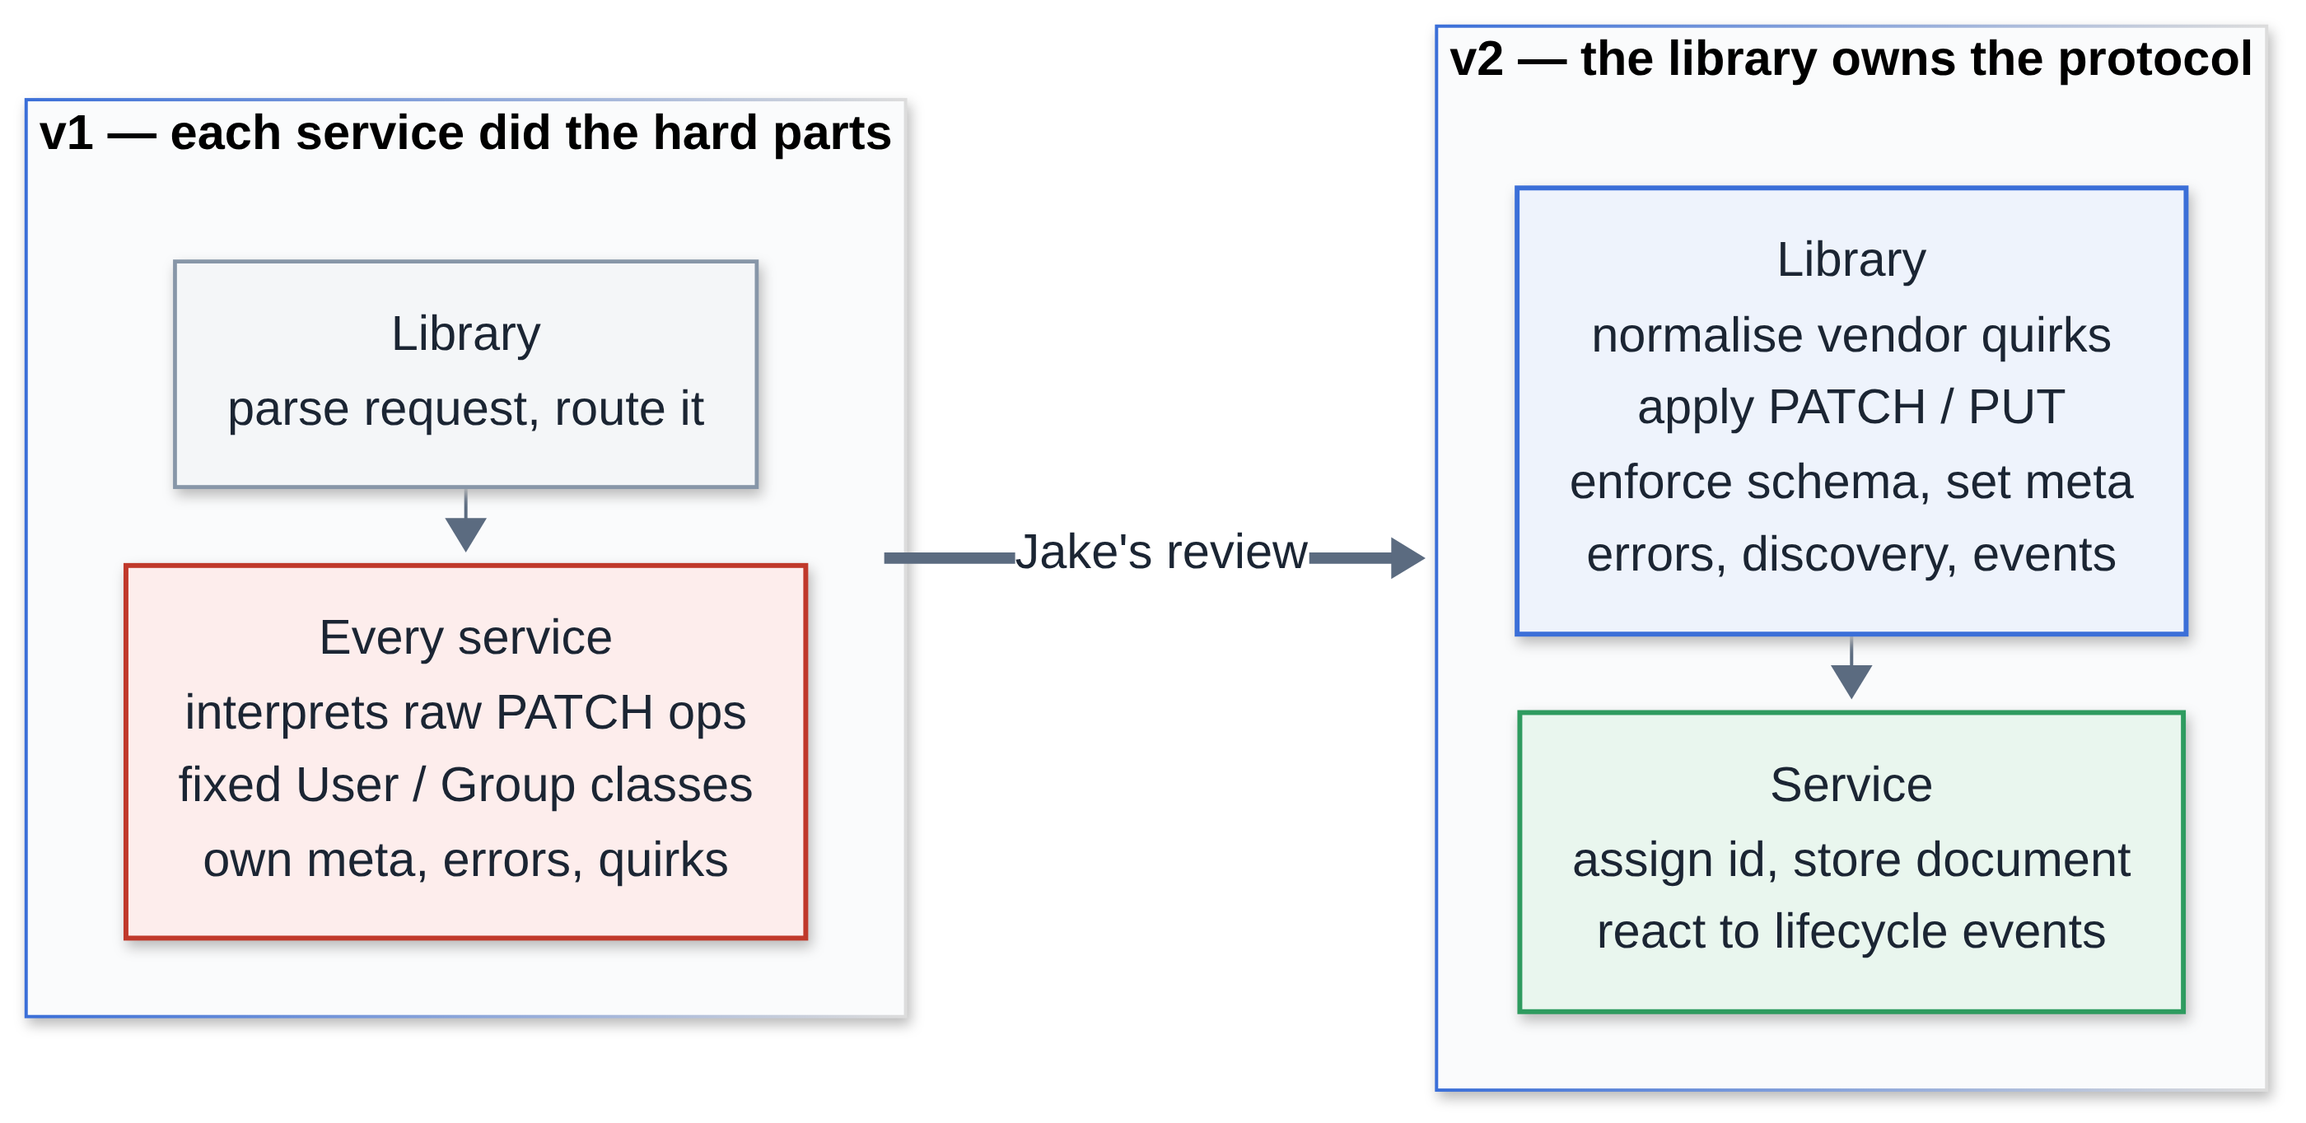
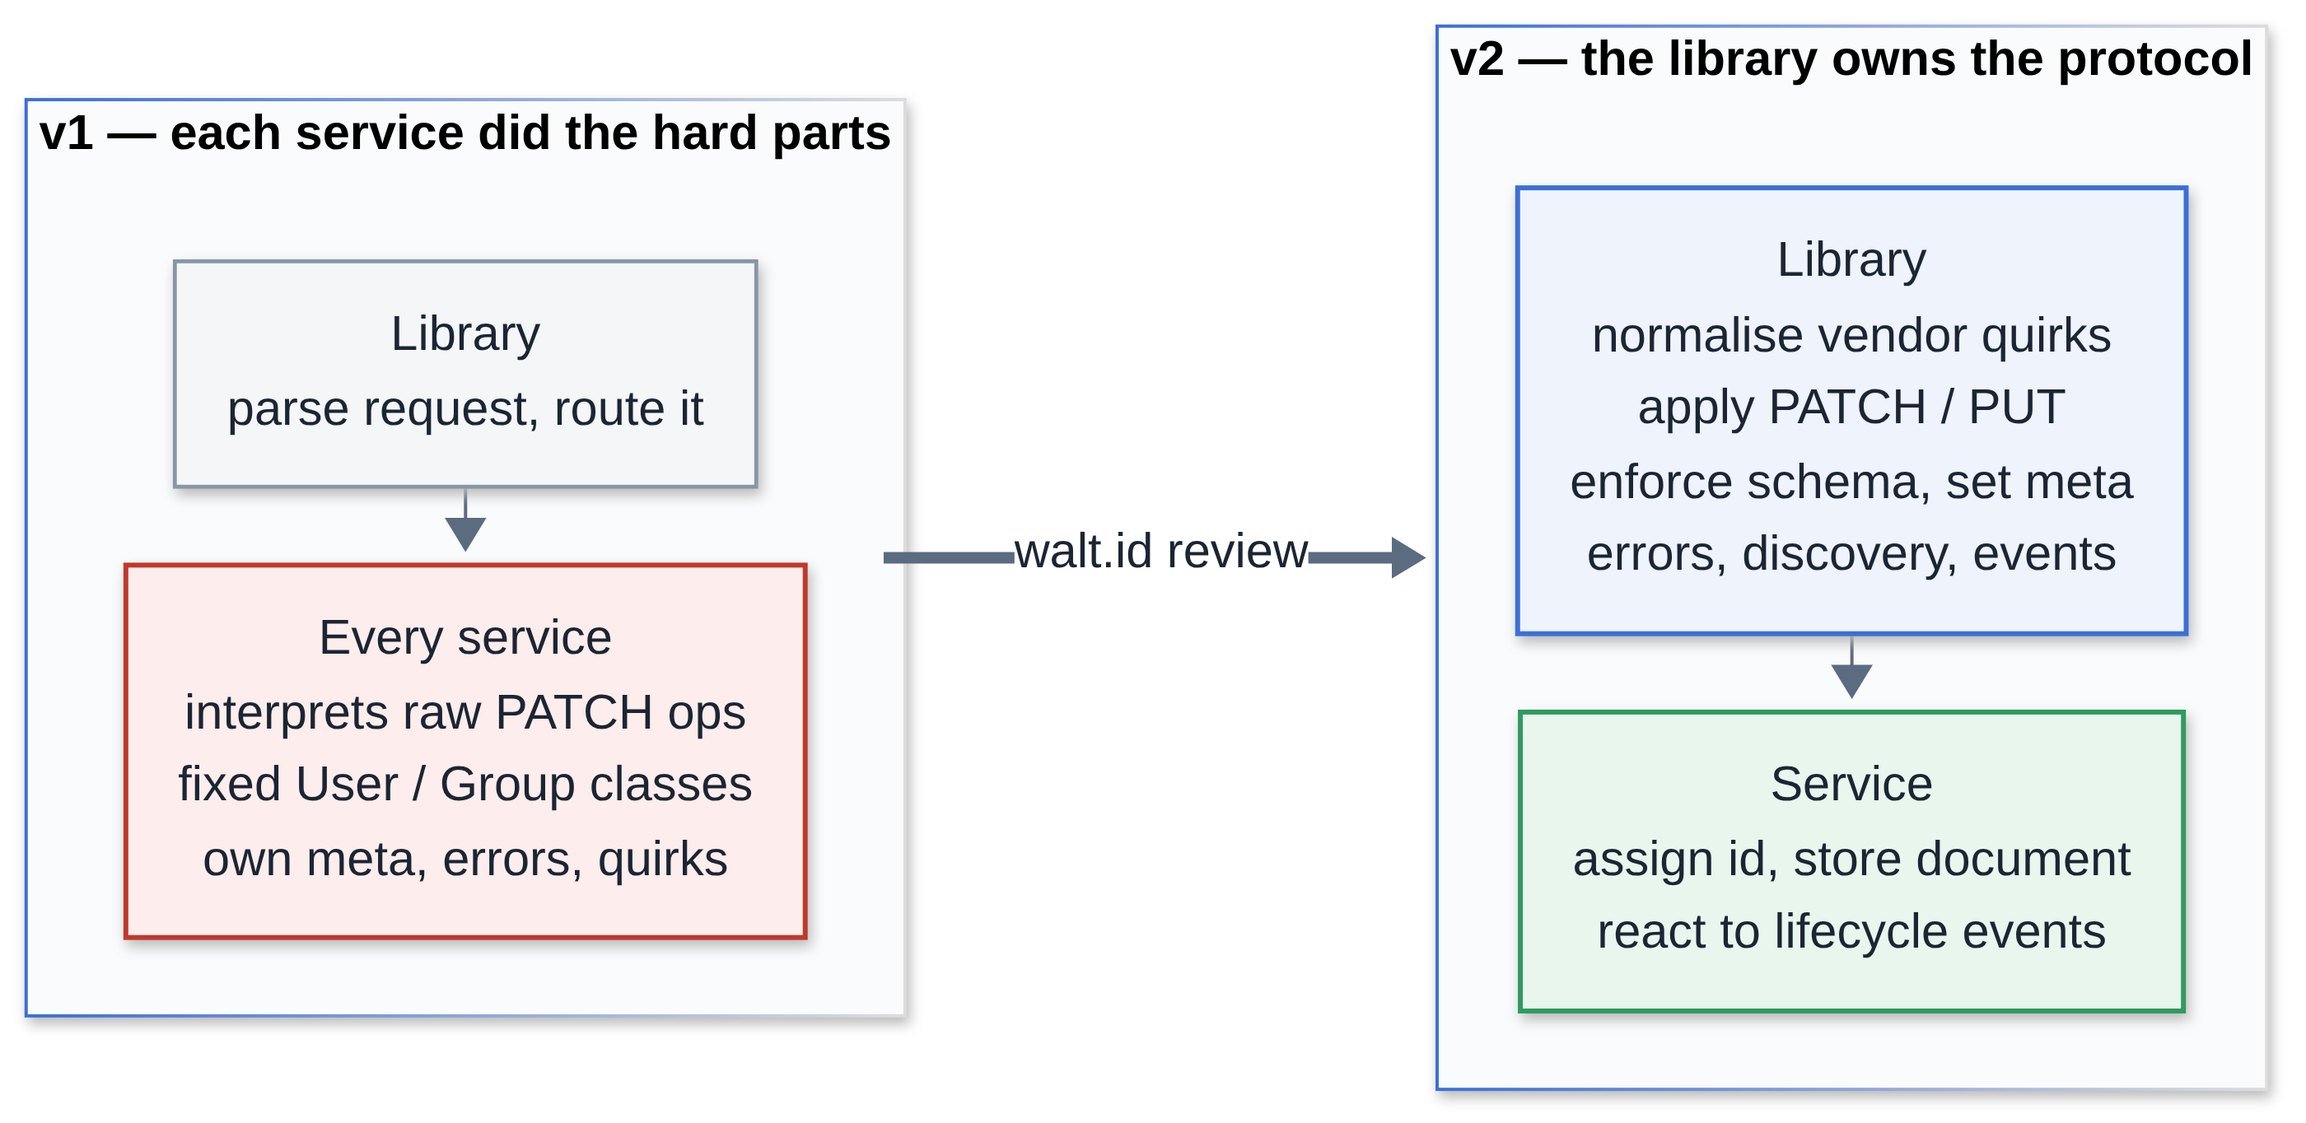
Add files via upload
Updated the design

diff --git a/waltid-scim-design-v2.md b/waltid-scim-design-v2.md
@@ -62,11 +62,11 @@ Author: Saurabh Kushwaha
 
 ## 1. What changed since v1
 
-Jake's review (walt.id COO) raised seven points about the SCIM library and three about the DID/VC binding. walt.id has also agreed to review the contribution, handle Enterprise Stack integration, co-maintain the library, and build the Ktor web routes module. I accepted both offers. Jake also noted that the OSS services have no SCIM-style integration today, but the Wallet2 API can host initial development.
+walt.id's review raised seven points about the SCIM library and three about the DID/VC binding. walt.id has also agreed to review the contribution, handle Enterprise Stack integration, co-maintain the library, and build the Ktor web routes module. I accepted both offers. walt.id also noted that the OSS services have no SCIM-style integration today, but the Wallet2 API can host initial development.
 
 The biggest change is the direction of responsibility. In v1 the library handed work down to the host. In v2 the library does the protocol work and the host persists documents.
 
-| # | Jake's point | Decision in v2 | Where |
+| # | walt.id review point | Decision in v2 | Where |
 |---|---|---|---|
 | 1 | Library applies partial updates; large-group membership optional | The library loads, applies all ops atomically, checks mutability, and hands the finished document to the store with the expected version. An optional membership-delta store handles big groups. | §4.1–4.4, §6 |
 | 2 | Every call needs context | `ScimRequestContext` carries tenant, connection, principal, request id, base URI and preconditions. It is passed to every SPI call and event. | §5, §6 |
@@ -170,7 +170,7 @@ The canonical in-memory form is a `ScimDocument`: an immutable wrapper over a ko
 
 | Policy | Behaviour |
 |---|---|
-| `PRESERVE_OPAQUE` (default, lenient mode) | Stored and returned unchanged, so it survives a round trip as Jake asked. Treated with the RFC 7643 §2.2 default characteristics ([RFC 7643 §2.2](https://www.rfc-editor.org/rfc/rfc7643#section-2.2)) |
+| `PRESERVE_OPAQUE` (default, lenient mode) | Stored and returned unchanged, so it survives a round trip as the walt.id review asked. Treated with the RFC 7643 §2.2 default characteristics ([RFC 7643 §2.2](https://www.rfc-editor.org/rfc/rfc7643#section-2.2)) |
 | `DROP` | Silently discarded on input |
 | `REJECT` (RFC and interop-profile modes) | 400 `invalidSyntax` |
 
@@ -253,7 +253,7 @@ The rules:
 
 ### 4.1 Pipeline
 
-This is the core of Jake's first point. The library loads the stored document, applies the request, checks the result, and hands a finished document to the host with the version it read.
+This is the core of the first walt.id review point (§1). The library loads the stored document, applies the request, checks the result, and hands a finished document to the host with the version it read.
 
 ![Figure 7 — PATCH flow: the library loads, applies and checks the change, the host stores it, and the event fires after commit](images/fig06-patch-pipeline.png)
 *Figure 7. PATCH flow: the library loads, applies and checks the change, the host stores it, and the event fires after commit*
@@ -297,7 +297,7 @@ PUT replaces the resource and MUST NOT create one. A PUT to an unknown id return
 
 | Attribute class | Present in the PUT body | Omitted from the PUT body |
 |---|---|---|
-| readWrite | Replaces the stored value | **Cleared**. The RFC allows clearing or defaulting; v2 clears, as Jake asked |
+| readWrite | Replaces the stored value | **Cleared**. The RFC allows clearing or defaulting; v2 clears, as the walt.id review asked |
 | readOnly (`id`, `meta`, `groups`) | Ignored silently (RFC) | Kept |
 | immutable | Must equal the stored value, or 400 `mutability`. Applied if no value is stored yet | Kept |
 | writeOnly (e.g. `password`) | Replaces the stored value; never returned | **Kept (design decision, see below)** |
@@ -732,7 +732,7 @@ id.walt.scim
 ![Figure 13 — Three modes: lenient accepts RFC input plus documented vendor variants, RFC mode accepts exactly what RFC 7644 allows, and the interop profile is a narrower opt-in; output is always standard](images/fig11-compat.png)
 *Figure 13. Three modes: lenient accepts RFC input plus documented vendor variants, RFC mode accepts exactly what RFC 7644 allows, and the interop profile is a narrower opt-in; output is always standard*
 
-Jake's sixth point is that the library is only as valuable as its handling of real clients. Real clients disagree with each other, and with the one serious attempt to tighten the standard. The interop draft rejects path-less PATCH, PUT and unknown attributes. Okta's own clients send path-less deactivation and use PUT for profile updates. Entra's compliant mode sends path-less replaces ([draft-zollner-scim-interop-profile-01](https://www.ietf.org/archive/id/draft-zollner-scim-interop-profile-01.html); [Okta](https://developer.okta.com/docs/api/openapi/okta-scim/guides/scim-20/); [Entra compatibility](https://learn.microsoft.com/en-us/entra/identity/app-provisioning/application-provisioning-config-problem-scim-compatibility)).
+The sixth walt.id review point is that the library is only as valuable as its handling of real clients. Real clients disagree with each other, and with the one serious attempt to tighten the standard. The interop draft rejects path-less PATCH, PUT and unknown attributes. Okta's own clients send path-less deactivation and use PUT for profile updates. Entra's compliant mode sends path-less replaces ([draft-zollner-scim-interop-profile-01](https://www.ietf.org/archive/id/draft-zollner-scim-interop-profile-01.html); [Okta](https://developer.okta.com/docs/api/openapi/okta-scim/guides/scim-20/); [Entra compatibility](https://learn.microsoft.com/en-us/entra/identity/app-provisioning/application-provisioning-config-problem-scim-compatibility)).
 
 - **Lenient (default).** Everything RFC 7644 allows, plus the documented vendor variants below. Output is always standard SCIM. Tolerance applies to input only.
 - **RFC.** Exactly what RFC 7643 and RFC 7644 allow, with no coercion. This includes path-less `add` and `replace`, which RFC 7644 §3.5.2.3 defines: with no `path`, the target is the resource itself ([RFC 7644 §3.5.2.3](https://www.rfc-editor.org/rfc/rfc7644#section-3.5.2.3)). Vendor-only shapes, such as dotted keys inside a path-less value or string booleans, are rejected with the RFC error. This is the conformance target, and the name is meant literally: it never rejects a request the RFC permits.
@@ -785,7 +785,7 @@ Capitalised sub-attribute names, such as Entra's `emails[type eq "other"].Value`
 
 ### 10.1 Events
 
-Jake asked for a small callback that fires after a successful deactivate, reactivate, delete or membership change. The library derives events from the before/after diff of a committed write:
+The walt.id review asked for a small callback that fires after a successful deactivate, reactivate, delete or membership change. The library derives events from the before/after diff of a committed write:
 
 | Event | Derived from | RFC 9967 name |
 |---|---|---|
@@ -854,15 +854,15 @@ How the host meets the existing-access guarantee depends on where sessions live:
 
 v2.1 had revoked first and committed second, relying on the client's retry to finish the job after a failure. The reviewer was right that this is fragile. A connection can be deleted, or a client can stop retrying, before the retry ever comes. The durable intent removes that dependency, so recovery is the host's responsibility and no longer the client's.
 
-This keeps Jake's point 7 intact. The library still knows nothing about sessions, and the post-commit listener still cannot fail a request. Revocation belongs to the host's store and its reconciler, and the library supplies the pending events that make the intent row easy to write.
+This keeps walt.id review point 7 intact. The library still knows nothing about sessions, and the post-commit listener still cannot fail a request. Revocation belongs to the host's store and its reconciler, and the library supplies the pending events that make the intent row easy to write.
 
 ---
 
 ## 11. Credential lifecycle binding
 
-v1 called this "DID/VC binding". Jake's three points change it enough to need a new name. The question is no longer "which DID does this account map to?" It is "when the directory says this account changed, which issued credentials must change status?"
+v1 called this "DID/VC binding". The walt.id review's three credential points change it enough to need a new name. The question is no longer "which DID does this account map to?" It is "when the directory says this account changed, which issued credentials must change status?"
 
-### 11.1 x509-first (Jake's point B1)
+### 11.1 x509-first (walt.id review point B1)
 
 The regulated, high-assurance ecosystems are X.509-anchored, and the specs walt.id customers are implementing say so directly:
 
@@ -873,7 +873,7 @@ The regulated, high-assurance ecosystems are X.509-anchored, and the specs walt.
 
 The evidence supports "regulated ecosystems standardised on X.509". It does not quantify any decline in DID use, and DIDs remain in EBSI-style tracks. So the module's issuer configuration holds certificate chains and trust anchors. walt.id already has the X.509 service profiles for IACA, DS and ETSI providers ([walt.id X.509 service](https://docs.walt.id/enterprise-stack/services/x509-service/issue-certificates.md)). DID-based issuers are an optional later extension.
 
-### 11.2 Bind to issued credential instances, not holder keys (Jake's point B2)
+### 11.2 Bind to issued credential instances, not holder keys (walt.id review point B2)
 
 ![Figure 16 — From one stable holder key to per-credential status entries](images/fig13-credential-binding.png)
 *Figure 16. From one stable holder key to per-credential status entries*
@@ -897,12 +897,12 @@ data class IssuedCredentialRecord(
 
 It stores no holder public key, no `cnf` thumbprint and no holder DID. Revocation does not need them, and ARF Topic A argues against keeping them. If a stable holder identity is genuinely needed, the ARF route is the wallet unit attestation and its status, not a key on the credential.
 
-### 11.3 Status is per credential; claim changes mean revoke and reissue (Jake's point B3)
+### 11.3 Status is per credential; claim changes mean revoke and reissue (walt.id review point B3)
 
 ![Figure 17 — Default credential status transitions under the issuer policy: reactivation clears only suspensions the SCIM deactivation caused (author proposal, not from a spec)](images/fig14-status-states.png)
 *Figure 17. Default credential status transitions under the issuer policy: reactivation clears only suspensions the SCIM deactivation caused (author proposal, not from a spec)*
 
-Jake is right, and v2 drops partial revocation. The IETF Token Status List represents exactly one status per referenced token, with 0x00 VALID, 0x01 INVALID and 0x02 SUSPENDED in 2-bit lists ([draft-ietf-oauth-status-list-21](https://www.ietf.org/archive/id/draft-ietf-oauth-status-list-21.txt)). As of 3 November 2026 it is IESG-approved and in the RFC Editor queue (first edit), still an Internet-Draft with no RFC number. W3C Bitstring Status List v1.0 (Recommendation, May 2025) applies status to the whole credential through `revocation` (irreversible) and `suspension` (reversible) purposes ([W3C](https://www.w3.org/TR/vc-status-list/)). mdoc revocation in the 18013-5 second edition profiles Token Status List, but that edition was still at DIS stage in the ISO catalogue ([ISO 91081](https://www.iso.org/fr/standard/91081.html); [MATTR](https://learn.mattr.global/docs/issuance/token-status-list-feature-support)).
+The review is right, and v2 drops partial revocation. The IETF Token Status List represents exactly one status per referenced token, with 0x00 VALID, 0x01 INVALID and 0x02 SUSPENDED in 2-bit lists ([draft-ietf-oauth-status-list-21](https://www.ietf.org/archive/id/draft-ietf-oauth-status-list-21.txt)). As of 3 November 2026 it is IESG-approved and in the RFC Editor queue (first edit), still an Internet-Draft with no RFC number. W3C Bitstring Status List v1.0 (Recommendation, May 2025) applies status to the whole credential through `revocation` (irreversible) and `suspension` (reversible) purposes ([W3C](https://www.w3.org/TR/vc-status-list/)). mdoc revocation in the 18013-5 second edition profiles Token Status List, but that edition was still at DIS stage in the ISO catalogue ([ISO 91081](https://www.iso.org/fr/standard/91081.html); [MATTR](https://learn.mattr.global/docs/issuance/token-status-list-feature-support)).
 
 **The mapping is an issuer policy, not a fixed table.** The SCIM library reports what happened to the account. Whether a credential changes status is the issuer's decision, made by a `CredentialLifecyclePolicy` that sees the SCIM event, the credential type, the issuing authority, the credential's current status and the *reason* for that status. Neither status-list standard carries a reason, so the issuance registry stores one per credential (for example `SCIM_DEACTIVATION`, `FRAUD`, `ISSUER_DECISION`).
 
@@ -995,13 +995,13 @@ Phase 1 keeps its full scope but lands as four PRs, each reviewable on its own. 
 
 | Increment | Scope | Owner | Accepted when |
 |---|---|---|---|
-| **PR 1 — User core** | `ScimDocument` with `UnknownAttributePolicy`, schema registry (User, Enterprise User), validation, filter parser and in-memory evaluator, store SPI with context, permissions, `ProvisioningScope` check and `revision`, PUT, the PATCH subset clients send for users (path-less replace, `active`, simple paths), `meta`, errors, index paging, capability profile and discovery builders, in-memory store, store contract kit | Saurabh | Create, read, filter (`userName eq`, `externalId eq`), PUT, deactivate, reactivate and delete pass against the in-memory store. Contract kit green for isolation, correlation and rollback |
+| **PR 1 — User core** | `ScimDocument` with `UnknownAttributePolicy`, schema registry (User, Enterprise User), validation, filter parser and in-memory evaluator, store SPI with context, permissions, `ProvisioningScope` check and `revision`, PUT, the PATCH subset clients send for users (path-less replace, `active`, simple paths), `meta`, errors, index paging, capability profile and discovery builders, in-memory store, store contract kit | Author | Create, read, filter (`userName eq`, `externalId eq`), PUT, deactivate, reactivate and delete pass against the in-memory store. Contract kit green for isolation, correlation and rollback |
 | **PR 2 — Routes** | `waltid-scim-server`: Ktor routes for Users and discovery, context resolver, static-bearer and OAuth client-credentials authenticators, wire format (§7.6), limits (§7.7) | walt.id | Ktor test-host suite green for core HTTP and RFC behaviour (status codes, headers, wire format, auth, limits). Vendor validators wait for PR 4 |
-| **PR 3 — Full PATCH and Groups** | Every §4.2 case, Groups, membership store and §4.6 rules, concurrency retry (§4.5), lifecycle events and the enforcement ordering (§10) | Saurabh (core), walt.id (Group routes) | Every §4.2, §4.6 and §4.7 row has a test. Rollback, parallel-PATCH, non-commuting membership, event-after-commit and revocation-intent tests green |
-| **PR 4 — Vendor compatibility** | Compatibility layer (§9), lenient, RFC and interop-profile modes, fixture corpus | Saurabh | Every §9.2 rule replays in all three modes. The Entra SCIM Validator and Okta Runscope suites pass against the in-memory store |
-| **PR 5 — Real host (Phase 2)** | Wallet2 API store adapter; live Entra (both PATCH modes) and Okta runs | Saurabh, with walt.id | Contract kit passes on the Wallet2 adapter, and the full lifecycle works on live tenants. Only now is the design called validated |
+| **PR 3 — Full PATCH and Groups** | Every §4.2 case, Groups, membership store and §4.6 rules, concurrency retry (§4.5), lifecycle events and the enforcement ordering (§10) | Author (core), walt.id (Group routes) | Every §4.2, §4.6 and §4.7 row has a test. Rollback, parallel-PATCH, non-commuting membership, event-after-commit and revocation-intent tests green |
+| **PR 4 — Vendor compatibility** | Compatibility layer (§9), lenient, RFC and interop-profile modes, fixture corpus | Author | Every §9.2 rule replays in all three modes. The Entra SCIM Validator and Okta Runscope suites pass against the in-memory store |
+| **PR 5 — Real host (Phase 2)** | Wallet2 API store adapter; live Entra (both PATCH modes) and Okta runs | Author, with walt.id | Contract kit passes on the Wallet2 adapter, and the full lifecycle works on live tenants. Only now is the design called validated |
 | **Enterprise Stack (Phase 2)** | Integration with the Enterprise Stack | walt.id | walt.id's acceptance |
-| **Phase 3 — Credential lifecycle (optional)** | `waltid-scim-credential-lifecycle`: issuance registry, random index allocation, event → status mapper, x5c-signed Status List Tokens (JWT and CWT), short-lived credential mode. x509 first; DID issuers only if demand appears | Saurabh + walt.id | Scope agreed after Phase 2 |
+| **Phase 3 — Credential lifecycle (optional)** | `waltid-scim-credential-lifecycle`: issuance registry, random index allocation, event → status mapper, x5c-signed Status List Tokens (JWT and CWT), short-lived credential mode. x509 first; DID issuers only if demand appears | Author + walt.id | Scope agreed after Phase 2 |
 | **Later, if needed** | RFC 9865 cursor paging, `/Bulk`, RFC 9967 SET emitter, `/GroupMembers`, RFC 9944 device schemas, nested groups | — | Demand-driven |
 
 Phase 1 should be usable as a generic SCIM library with no walt.id-specific code. Phase 2 proves the abstraction against a real walt.id service.

diff --git a/waltid-scim-use-cases-and-architecture.md b/waltid-scim-use-cases-and-architecture.md
@@ -4,7 +4,7 @@
 
 > **Superseded.** This is v1, kept for history. The current design is [v2.2](waltid-scim-design-v2.md).
 
-This document answers the two questions Phil raised: what the library should cover, and how it should be shaped.
+This document answers the two questions walt.id raised: what the library should cover, and how it should be shaped.
 
 The proposal is intentionally narrow: add a clean SCIM 2.0 foundation that lets standards-compliant enterprise provisioning clients such as Microsoft Entra ID, Okta, Ping, or an IGA platform provision and deprovision walt.id resources. The same library should also be usable by implementors outside walt.id.
 
